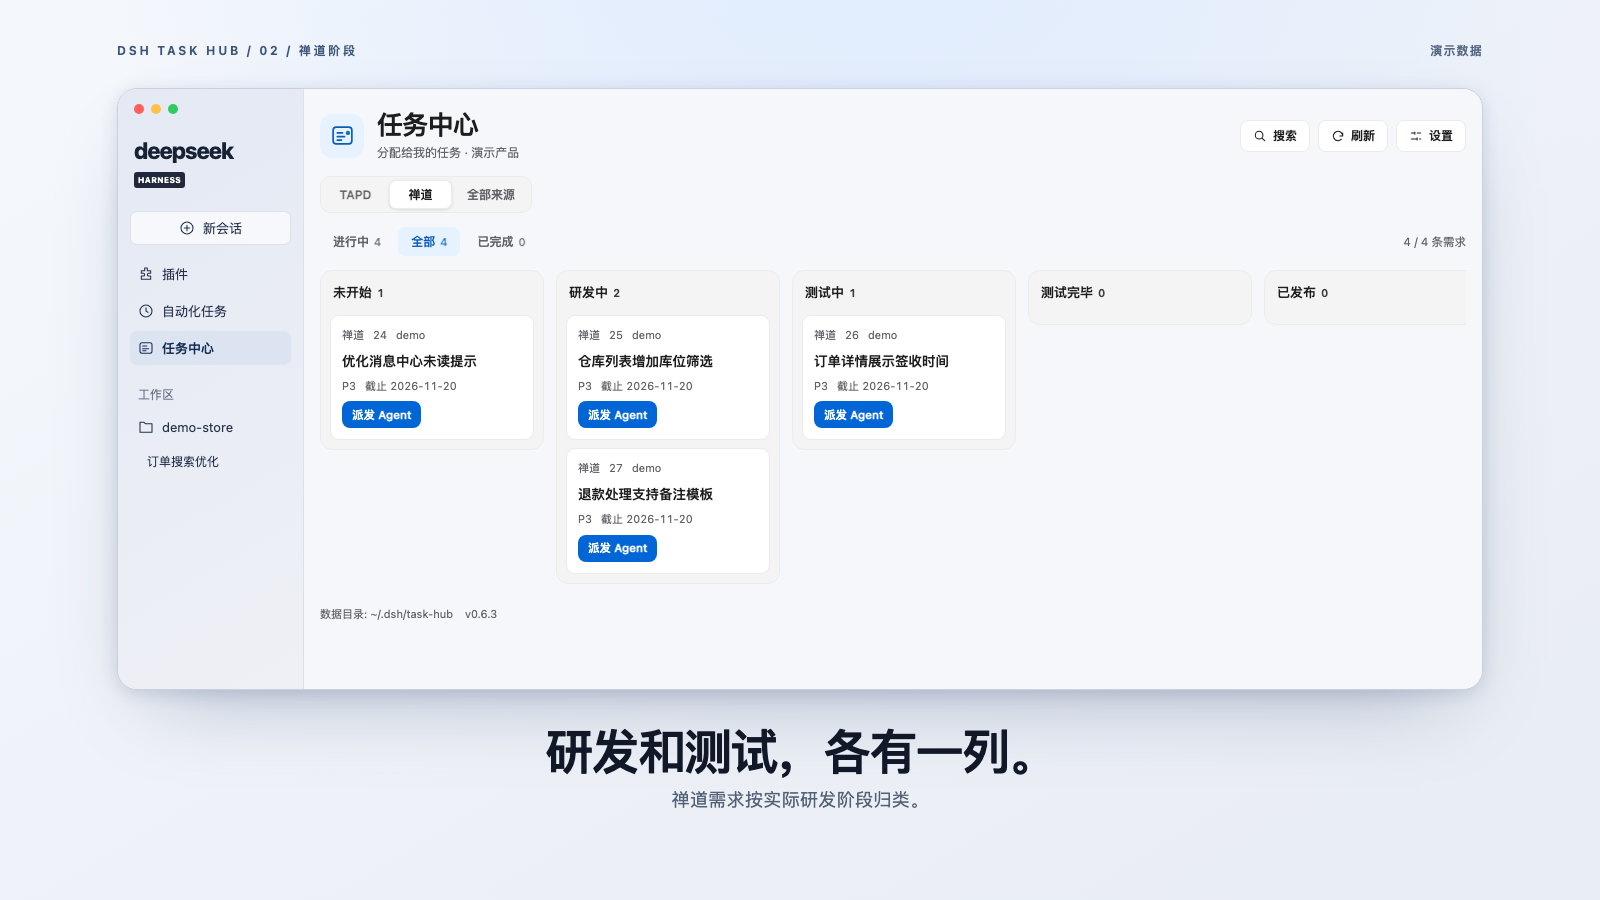
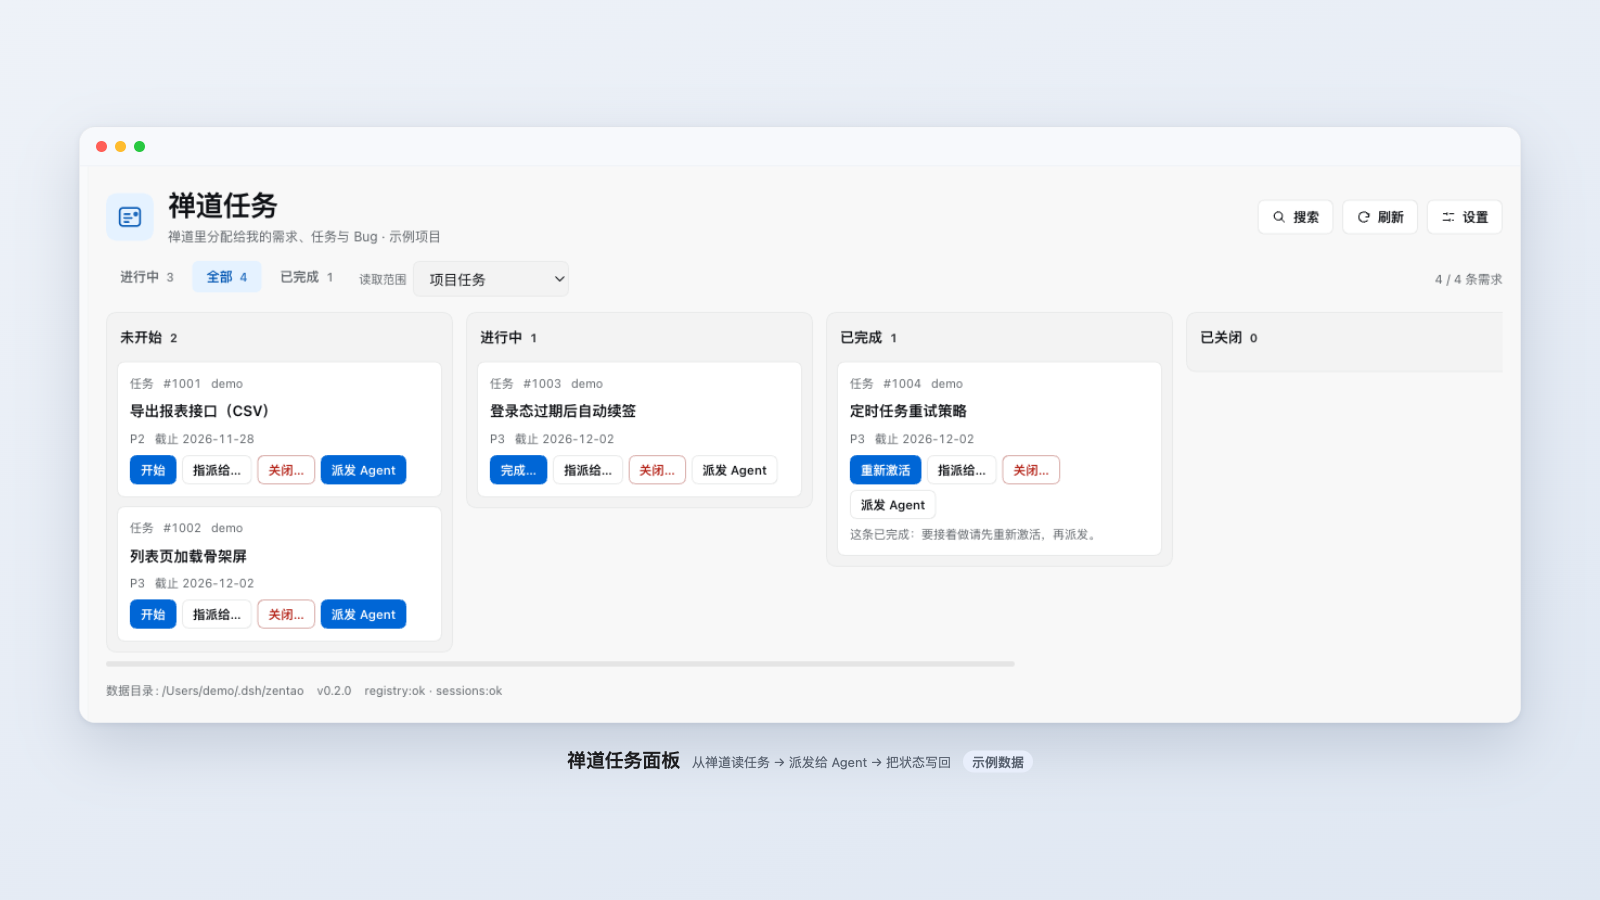
Release 0.2.0 and refresh the market shot
- version 0.2.0: the release carries the v2 channel fix, the expanded
  write-back actions, the audit fixes and the new icon.
- The intro no longer carries the upstream link inline; both READMEs list
  dsh-task-hub under a "links" section at the very bottom, and the title
  now matches the package name.
- assets/market/01-zentao-board.png replaces the stale screenshot that
  came over from dsh-task-hub (it showed TAPD tabs and ~/.dsh/task-hub).
  The panel is captured with demo fixtures — 示例项目, #1001–#1004 — so no
  real task name, iteration or project appears in it.

diff --git a/README.md b/README.md
@@ -1,10 +1,10 @@
-# dsh-zentao
+# dsh-zentao-hub
 
 [English](README.en.md) · **简体中文**
 
 DSH 的禅道面板：从 **禅道** 里读取分配给你的需求、任务与缺陷，选一个工作区、手填分支名，把选中的条目派发给 Agent；干完之后把状态和一句备注写回禅道。
 
-本包是从 [dsh-task-hub](https://github.com/handsomeboy65/dsh-task-hub)（TAPD + 禅道双来源）中把禅道部分拆分出来的独立插件，并在拆分基础上补齐了四条能力：**数据通道可切换（含官方 zentao-cli）**、**「我的地盘」+ 未完成计数**、**Bug 分诊矩阵**、**状态回写**。
+本包是从 dsh-task-hub（TAPD + 禅道双来源）中把禅道部分拆分出来的独立插件，并在拆分基础上补齐了四条能力：**数据通道可切换（含官方 zentao-cli）**、**「我的地盘」+ 未完成计数**、**Bug 分诊矩阵**、**状态回写**。
 
 ## 四条能力
 
@@ -128,3 +128,8 @@ npm test     # 114 项：纯函数、v1/v2/cli 三条读通道、回写计划与
 - 处理人过滤在 v1 通道下仍是本地的，请求量随容器数增长。
 - 附件上限：单图 6MB、总附件 20MB。
 - 不代替 Agent 执行计划；派发后由会话里的 Agent 自己规划与实现。
+
+## 相关链接
+
+- [dsh-task-hub](https://github.com/handsomeboy65/dsh-task-hub)：TAPD + 禅道双来源的上游项目，本插件由它拆分而来。
+- [npm: dsh-zentao-hub](https://www.npmjs.com/package/dsh-zentao-hub)

diff --git a/README.en.md b/README.en.md
@@ -1,10 +1,10 @@
-# dsh-zentao
+# dsh-zentao-hub
 
 **English** · [简体中文](README.md)
 
 A ZenTao panel for DSH: read the requirements, tasks and bugs assigned to you, pick a workspace, type a branch name, dispatch the item to an agent — and write the outcome back into ZenTao.
 
-This package is the ZenTao half of [dsh-task-hub](https://github.com/handsomeboy65/dsh-task-hub) (TAPD + ZenTao in one panel), with four capabilities added on top of the split: **switchable data channels (including the official zentao-cli)**, **地盘 ("my work") + an open-item count**, **a bug triage matrix**, and **state write-back**.
+This package is the ZenTao half of dsh-task-hub (TAPD + ZenTao in one panel), with four capabilities added on top of the split: **switchable data channels (including the official zentao-cli)**, **地盘 ("my work") + an open-item count**, **a bug triage matrix**, and **state write-back**.
 
 ## The four capabilities
 
@@ -106,3 +106,8 @@ An installed bundle needs a DSH restart to load the new JS generation.
 - Assignee filtering is still local on v1, so request volume grows with the number of containers.
 - Asset limits: 6 MB per image, 20 MB total.
 - The plugin does not plan the work; the dispatched agent does.
+
+## Links
+
+- [dsh-task-hub](https://github.com/handsomeboy65/dsh-task-hub) — the upstream TAPD + ZenTao project this plugin was split from.
+- [npm: dsh-zentao-hub](https://www.npmjs.com/package/dsh-zentao-hub)
